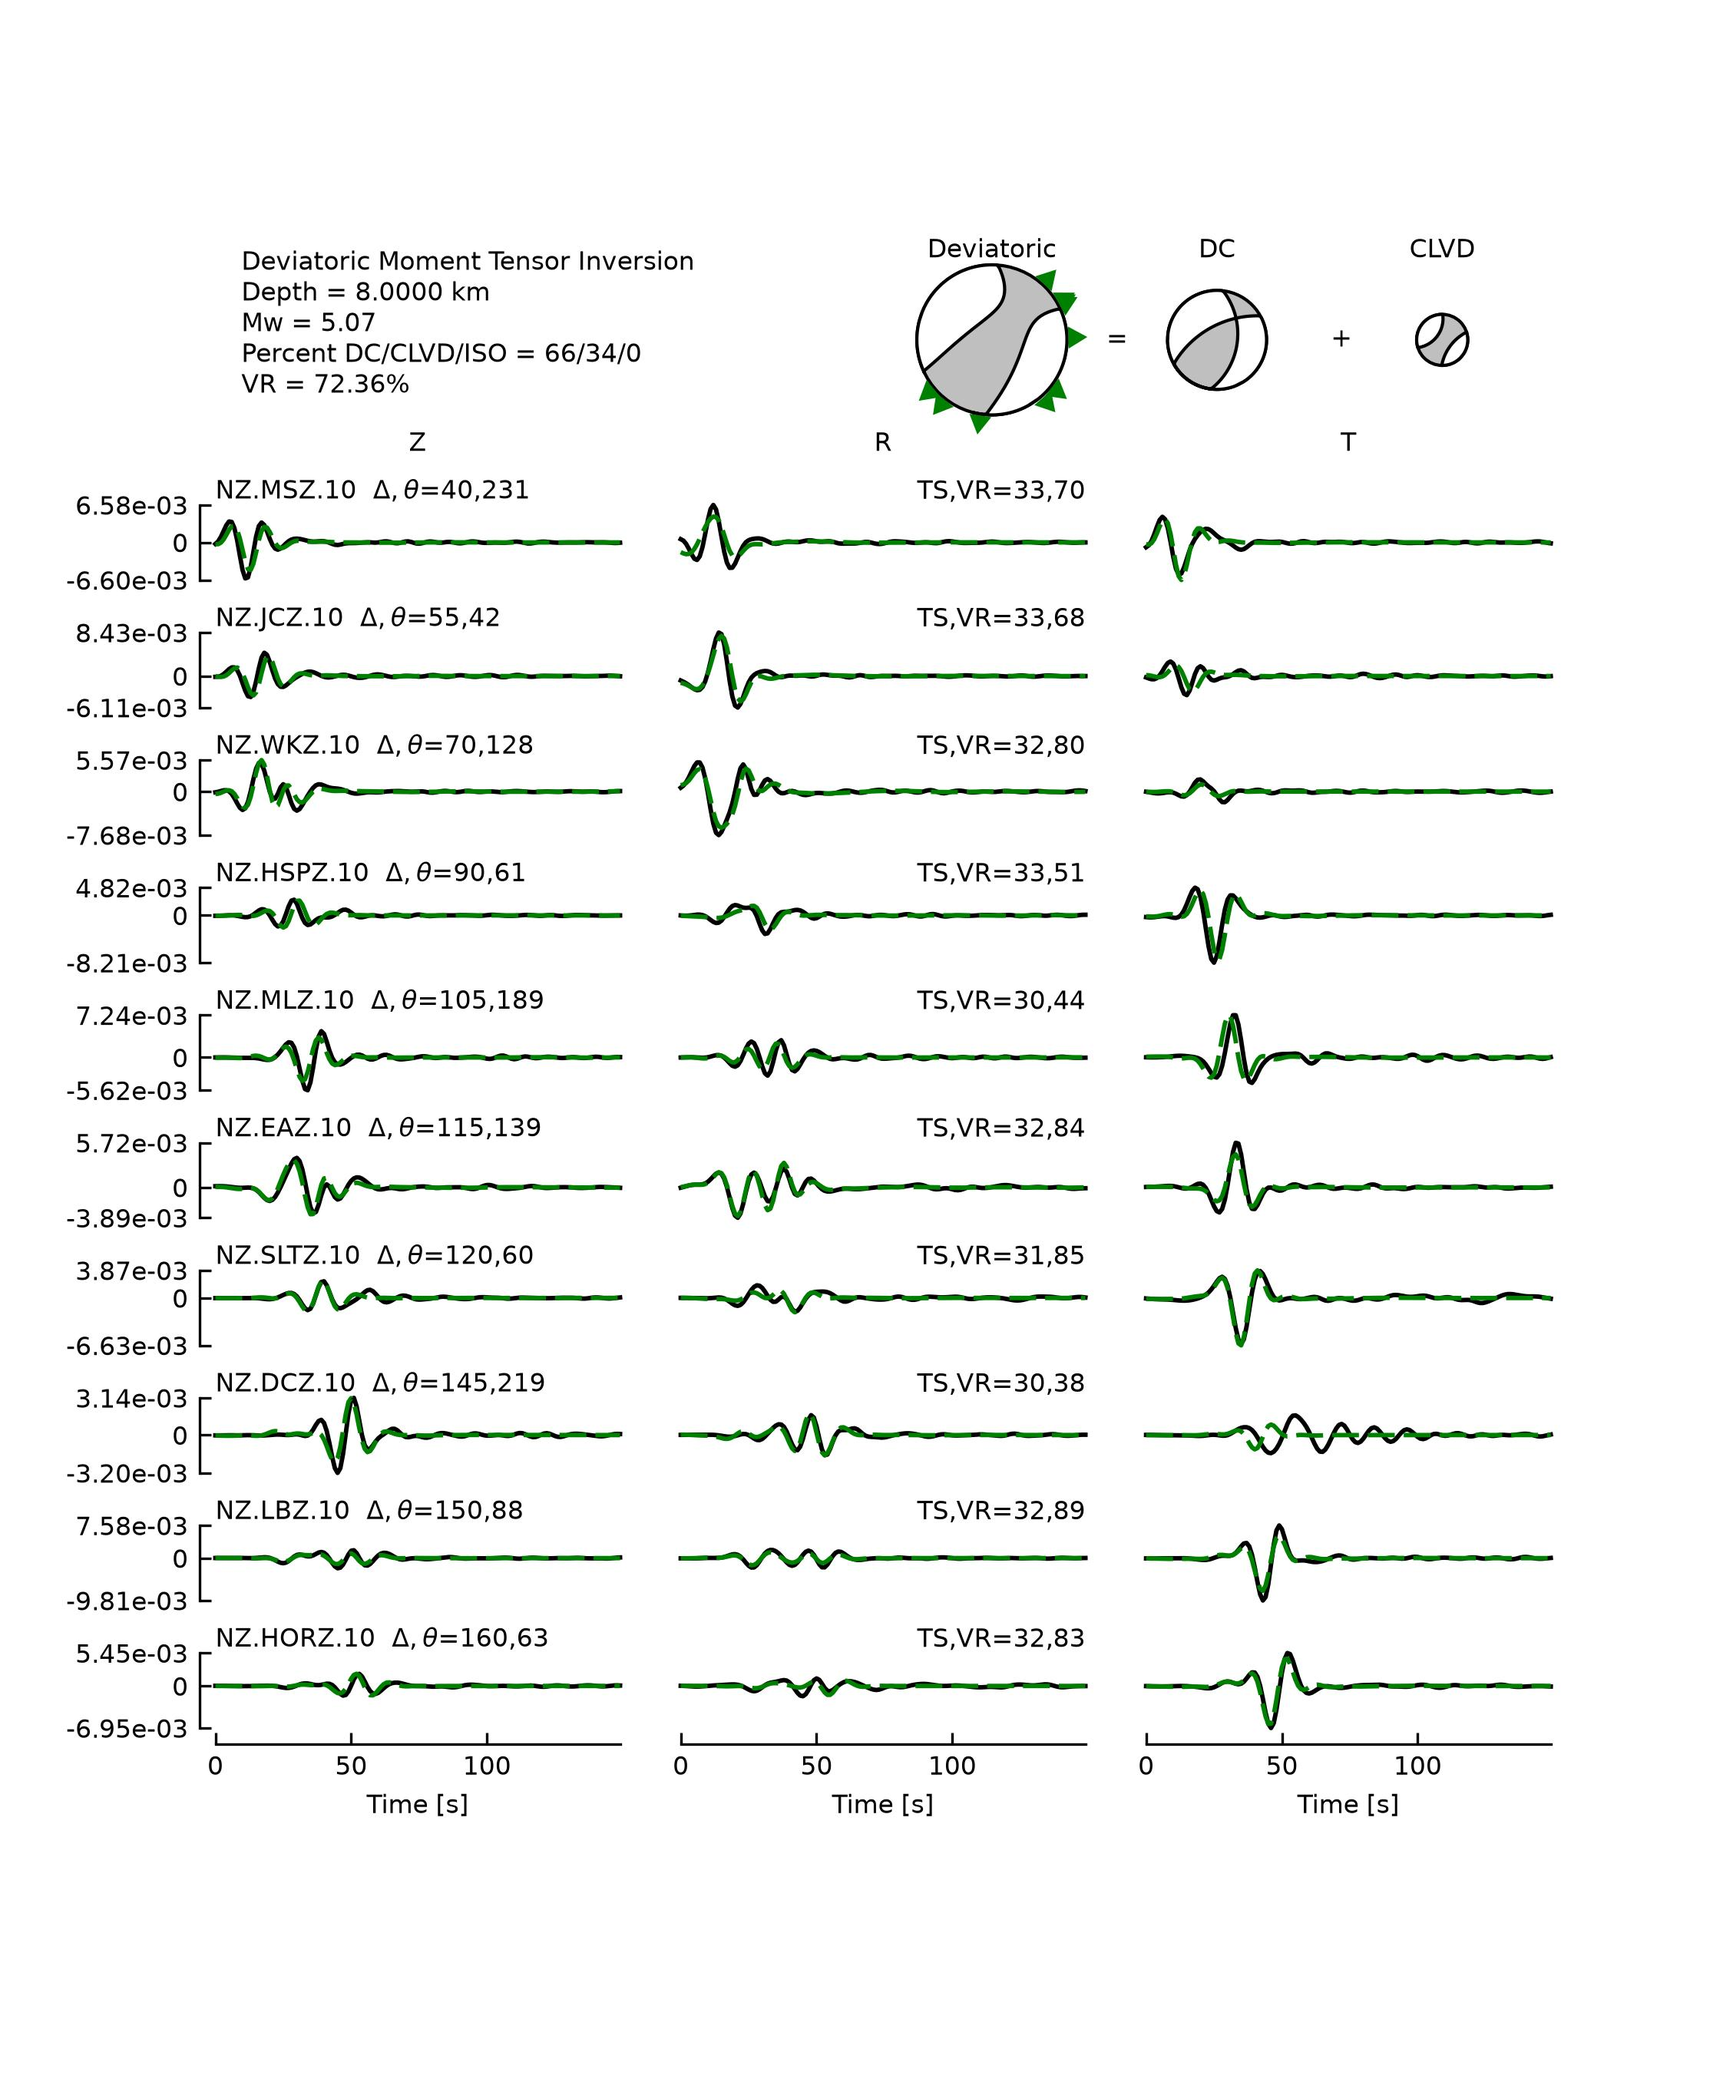
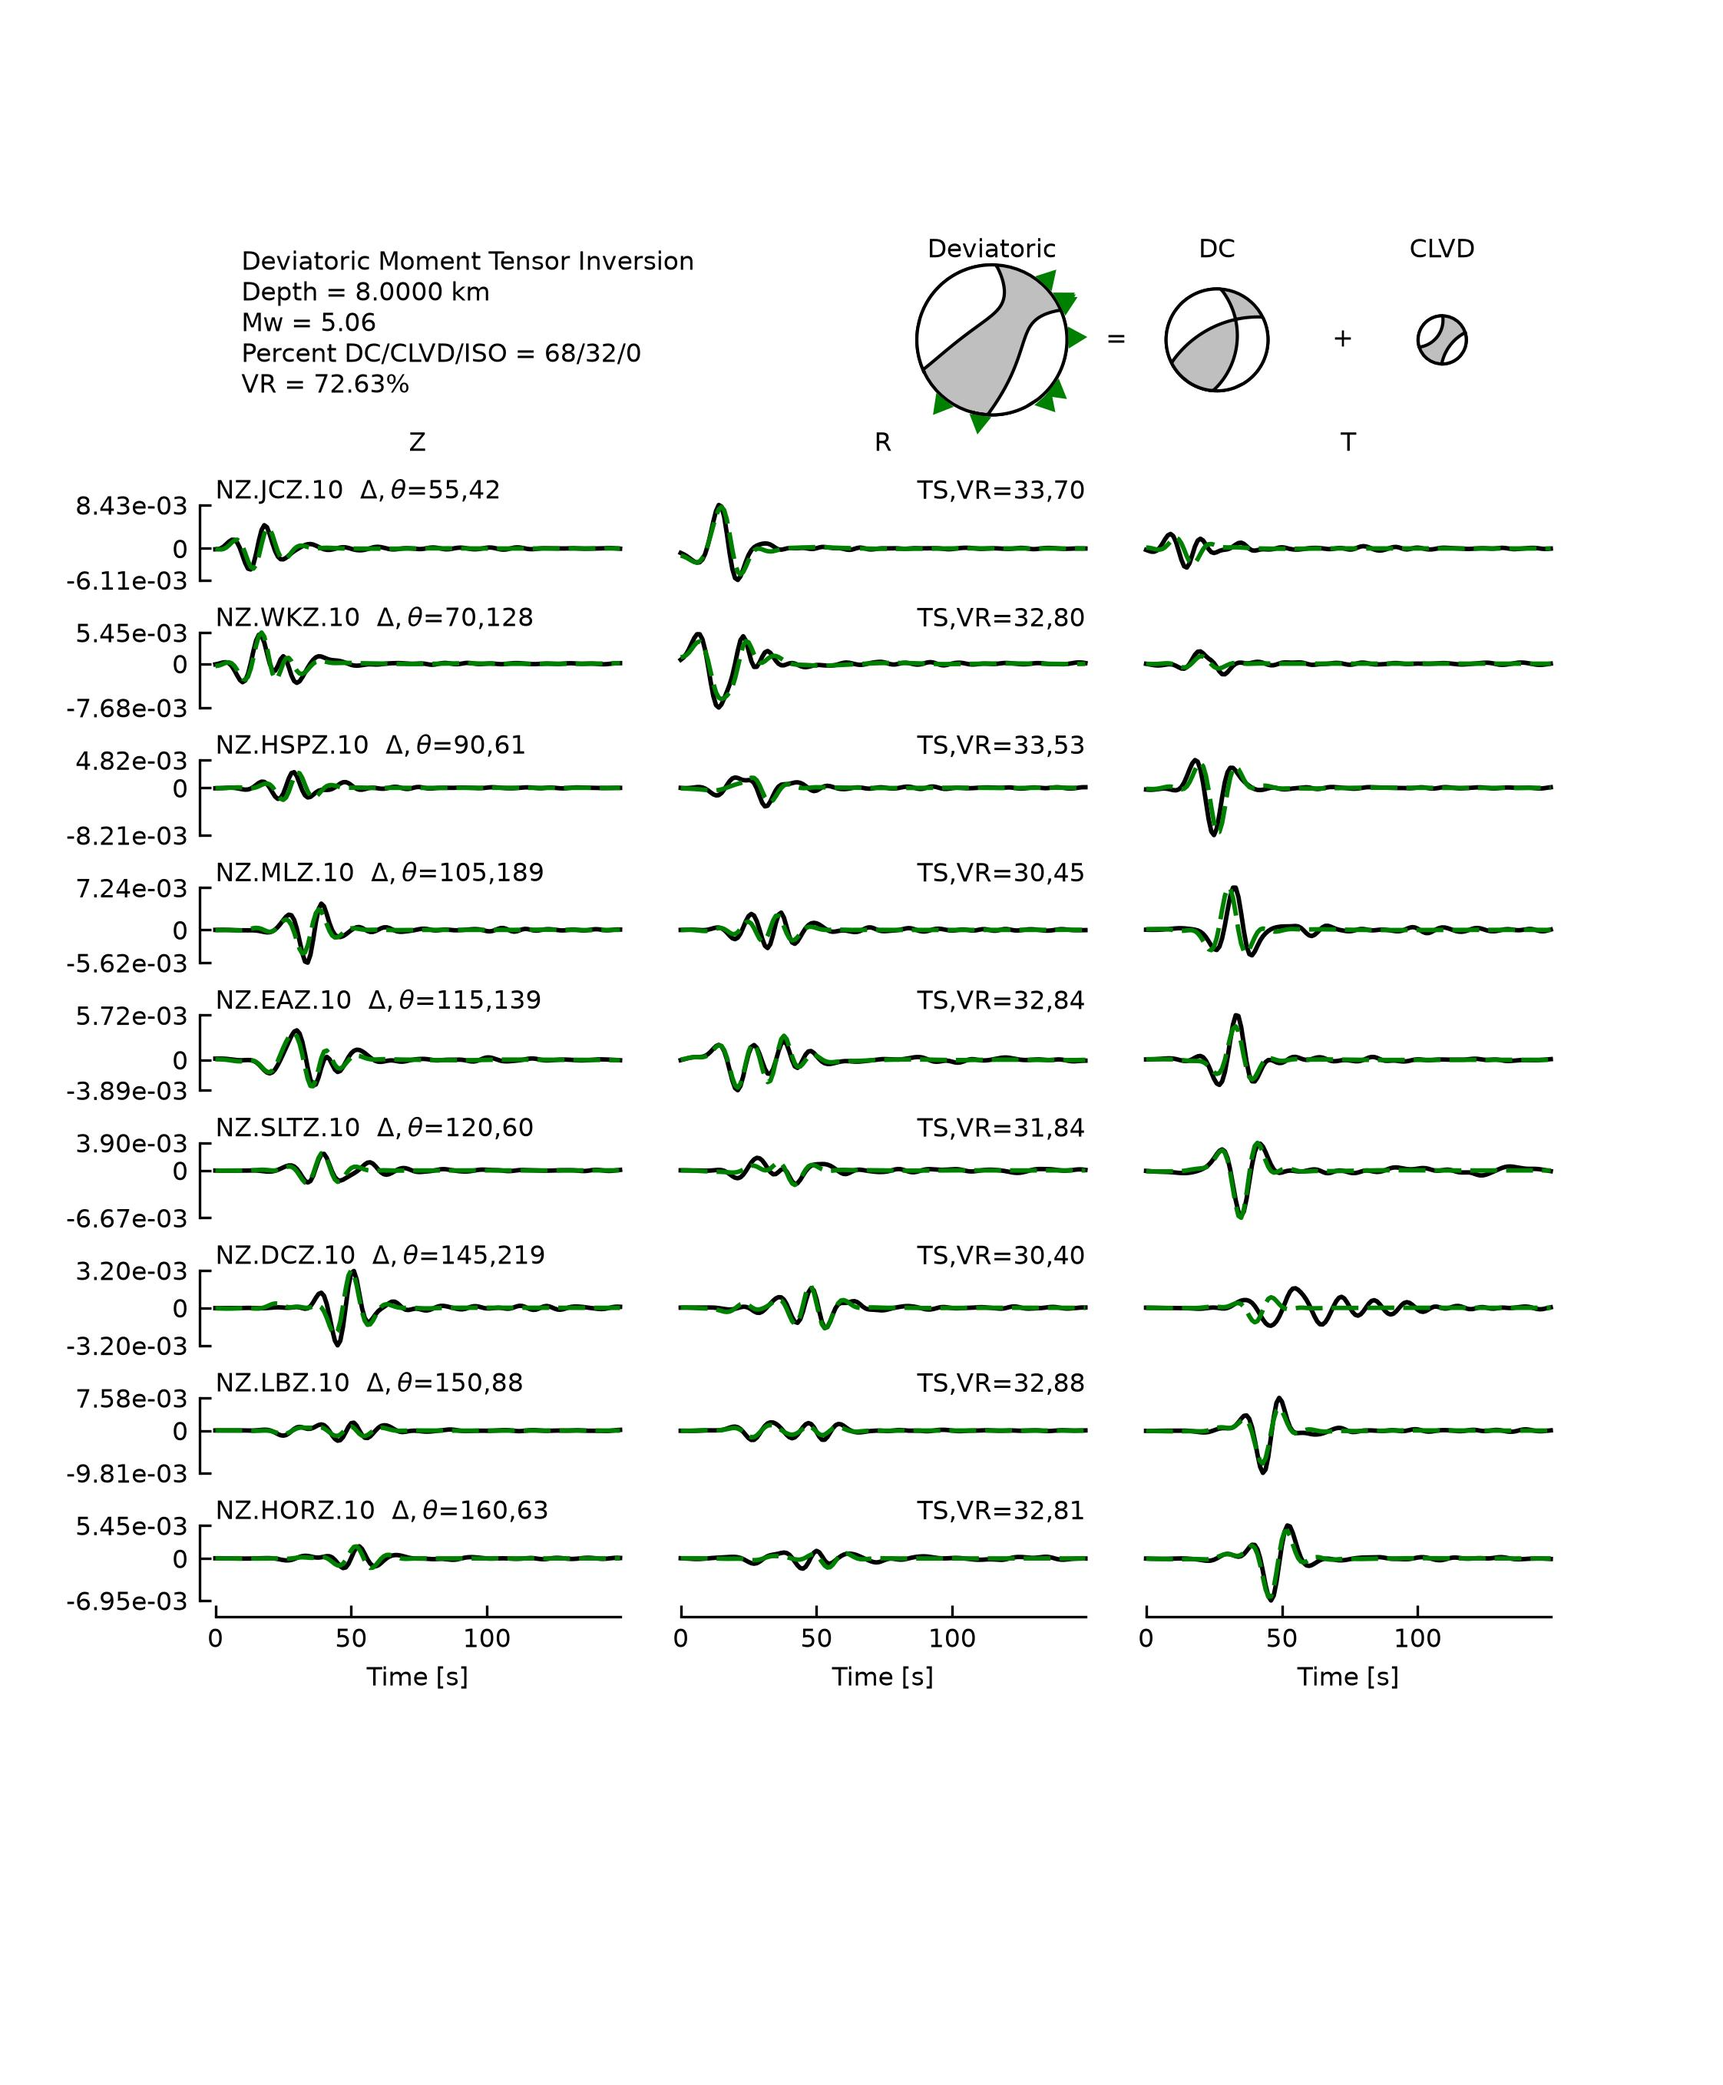
rerun Fiordland sequence: zcor audit, dV% maps, both-plane forward models

diff --git a/docs/examples/README.md b/docs/examples/README.md
@@ -8,9 +8,9 @@ figures, per-band results) are under `events/<publicID>/`.
 
 | publicID | GeoNet prelim M / depth | our Mw / depth | VR | %DC/%CLVD | plane1 s/d/r | stations | band | pred. peak disp | email gate |
 |---|---|---|---|---|---|---|---|---|---|
-| 2026p660242 | M5.6 / 5 km | **5.03** / 7 km | 85% | 97/3 | 359/55/31 | 6 | 30-100s | 0.47 cm | YES |
-| 2026p660160 | M5.5 / 5 km | **5.07** / 8 km | 72% | 66/34 | 7/45/46 | 10 | 10-50s | 0.50 cm | YES |
-| 2026p660272 | M4.8 / 5 km | **5.03** / 58 km | 87% | 97/3 | 272/72/156 | 1 | 20-100s | 0.01 cm | no — quality gates failed: {'min_stations': False, 'vr_floor': Tr |
+| 2026p660242 | M5.6 / 5 km | **5.03** / 7 km | 85% | 97/3 | 359/55/31 | 6 | 30-100s | 0.47 cm | no — daily cap 3 reached |
+| 2026p660160 | M5.5 / 5 km | **5.06** / 8 km | 73% | 68/32 | 4/47/41 | 9 | 10-50s | 0.47 cm | no — daily cap 3 reached |
+| 2026p660272 | M4.8 / 5 km | **4.74** / 1 km | 91% | 81/19 | 64/88/90 | 1 | 20-100s | 3.86 cm | no — quality gates failed: {'min_stations': False, 'vr_floor': Tr |
 | 2026p660321 | M4.6 / 5 km | **4.09** / 4 km | 80% | 94/6 | 279/68/-174 | 8 | 20-50s | 0.03 cm | no — Mw 4.09 < 5.0 and predicted displacement 0.03 cm < 1 cm |
 
 Per event, the email carries three figures (copied here):
